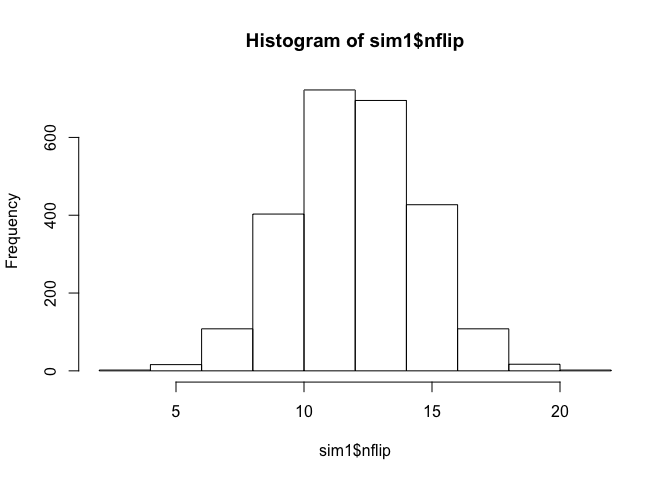
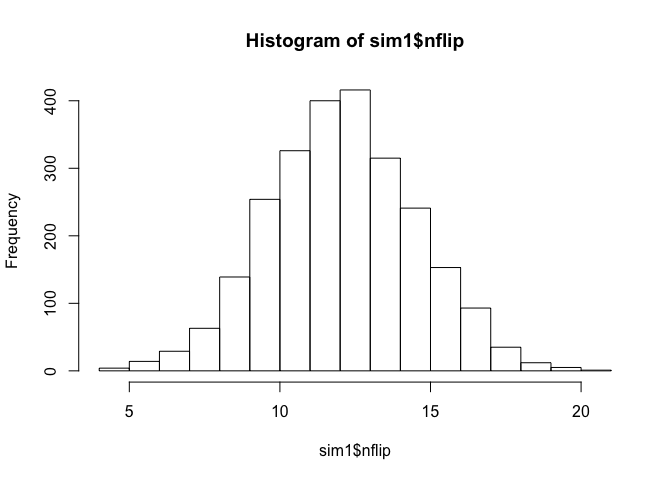
no message

diff --git a/hyptest/hyptest.md b/hyptest/hyptest.md
@@ -20,7 +20,7 @@ of 25 coin tosses, using the `nflip` command in the mosaic library:
 
     nflip(n=25)
 
-    ## [1] 12
+    ## [1] 11
 
     nflip(n=25)
 
@@ -43,26 +43,26 @@ it's better to run a lot more than three. We can do this using the
     do(20)*nflip(n=25)
 
     ##    nflip
-    ## 1     12
-    ## 2     11
+    ## 1     10
+    ## 2     12
     ## 3     11
-    ## 4     13
-    ## 5     15
-    ## 6     10
-    ## 7     15
-    ## 8      9
-    ## 9     10
-    ## 10    14
-    ## 11    16
-    ## 12    11
-    ## 13    17
-    ## 14     6
-    ## 15    13
+    ## 4     15
+    ## 5     10
+    ## 6     15
+    ## 7     13
+    ## 8     11
+    ## 9      9
+    ## 10    15
+    ## 11    14
+    ## 12    15
+    ## 13    11
+    ## 14    16
+    ## 15    10
     ## 16    15
-    ## 17    14
-    ## 18    11
-    ## 19    13
-    ## 20    12
+    ## 17     9
+    ## 18    14
+    ## 19     7
+    ## 20    13
 
 That's 20 sequences of 25 fair coin flips, with each line representing
 the number of flips won by the Patriots (assuming a 50% win probability)
@@ -76,18 +76,18 @@ Let's now run a much larger Monte Carlo simulation (i.e. many more than
     head(sim1)
 
     ##   nflip
-    ## 1    16
-    ## 2     8
-    ## 3    10
-    ## 4    13
+    ## 1    10
+    ## 2    16
+    ## 3    13
+    ## 4    11
     ## 5    12
-    ## 6    15
+    ## 6    11
 
 You can see that `sim1` is a data frame with 1 variable, called `nflip`.
 If we look at a histogram of `sim1$nflip`, we will see the probability
 distribution of Patriots' wins in 25 fair coin tosses:
 
-    hist(sim1$nflip)
+    hist(sim1$nflip, breaks=20)
 
 ![](hyptest_files/figure-markdown_strict/unnamed-chunk-5-1.png)
 
@@ -99,7 +99,7 @@ wins or more, divided by the number of simulations (here 2500):
     pval = sum(sim1$nflip >= 19)/2500
     pval
 
-    ## [1] 0.0076
+    ## [1] 0.0072
 
 This probability is called a p-value. This one is pretty small (less
 than 1%, although yours will be different than mine, because of Monte
